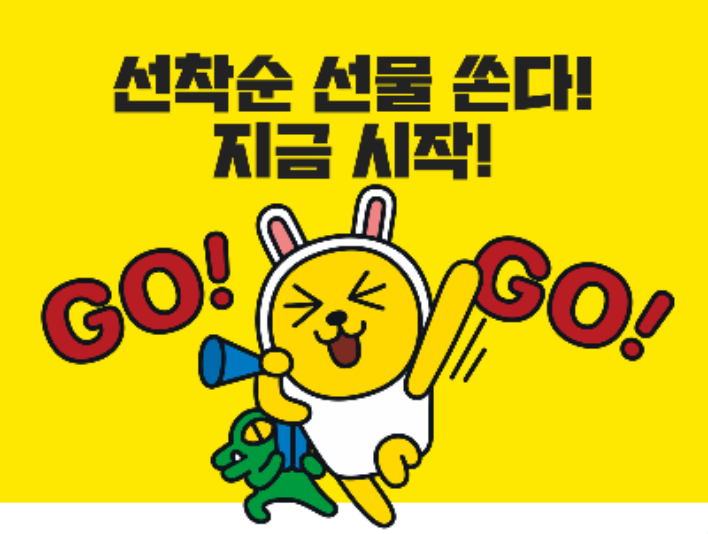
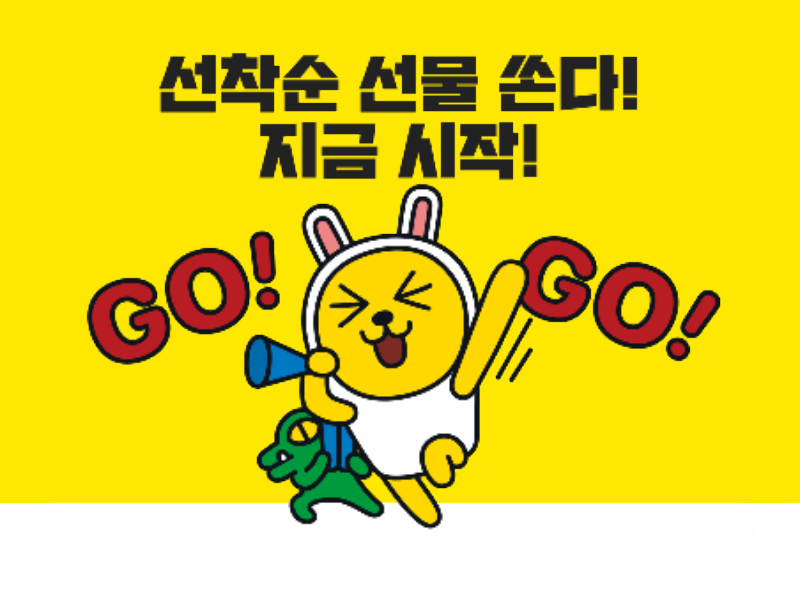
h

diff --git a/pages/index.tsx b/pages/index.tsx
@@ -12,23 +12,24 @@ const Home: NextPage = () => {
   }, []);
 
   const share = () => {
-    Kakao.Share.createDefaultButton({
-      container: '#kakaotalk-sharing-btn',
+    console.log(router.asPath);
+    Kakao.Share.sendDefault({
       objectType: 'feed',
       content: {
         title: '선착순 선물 게임을 시작합니다! 기회는 단 10분간, 선착순 2명에게!',
-        imageUrl: `${router.pathname}/images/giftTitle.png`,
+        imageUrl: `https://kakao-nacksee.vercel.app/images/giftTitle.png`,
+        imageWidth: 800, imageHeight: 600,
         link: {
-          mobileWebUrl: `${router.pathname}/trolled`,
-          webUrl: `${router.pathname}/trolled`,
+          mobileWebUrl: `https://kakao-nacksee.vercel.app/trolled`,
+          webUrl: `https://kakao-nacksee.vercel.app/trolled`,
         },
       },
       buttons: [
         {
           title: '지금 달려가기',
           link: {
-            mobileWebUrl: `${router.pathname}/trolled`,
-            webUrl: `${router.pathname}/trolled`,
+            mobileWebUrl: `https://kakao-nacksee.vercel.app/trolled`,
+            webUrl: `https://kakao-nacksee.vercel.app/trolled`,
           },
         },
       ],
